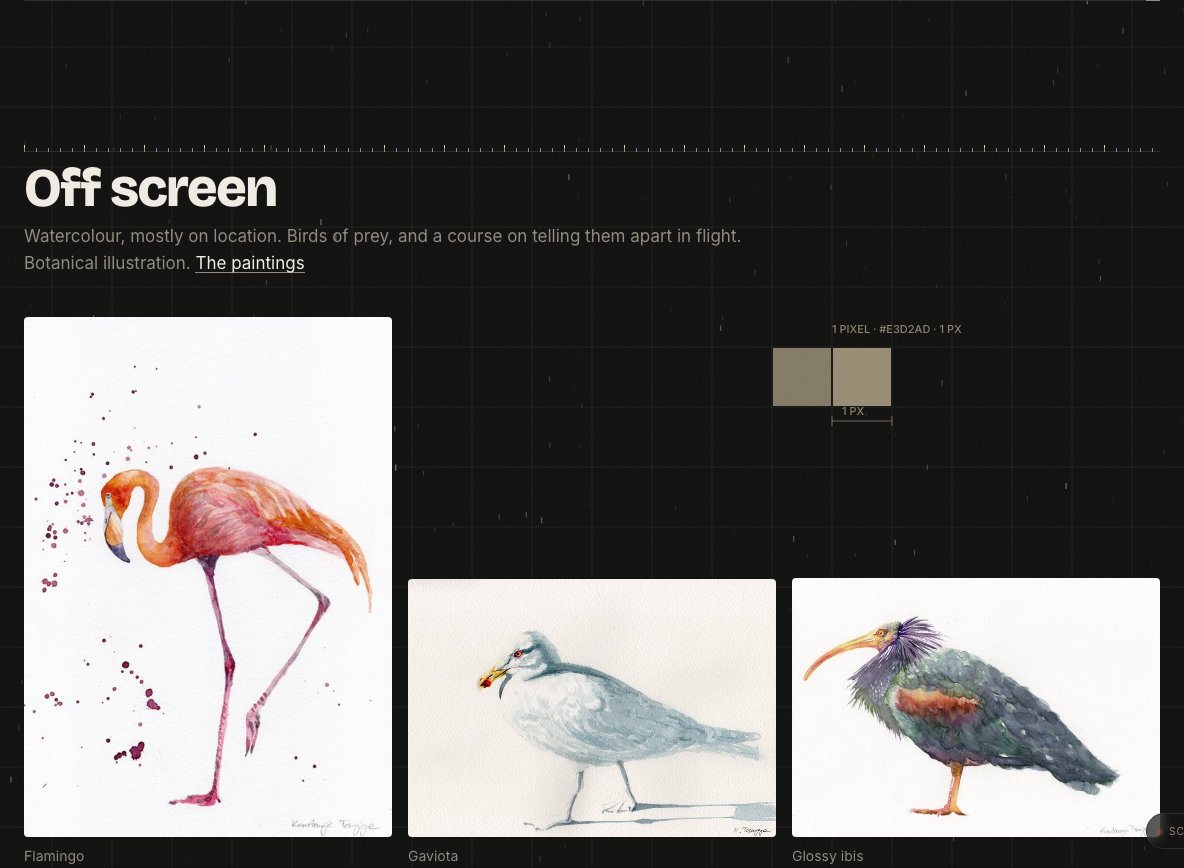
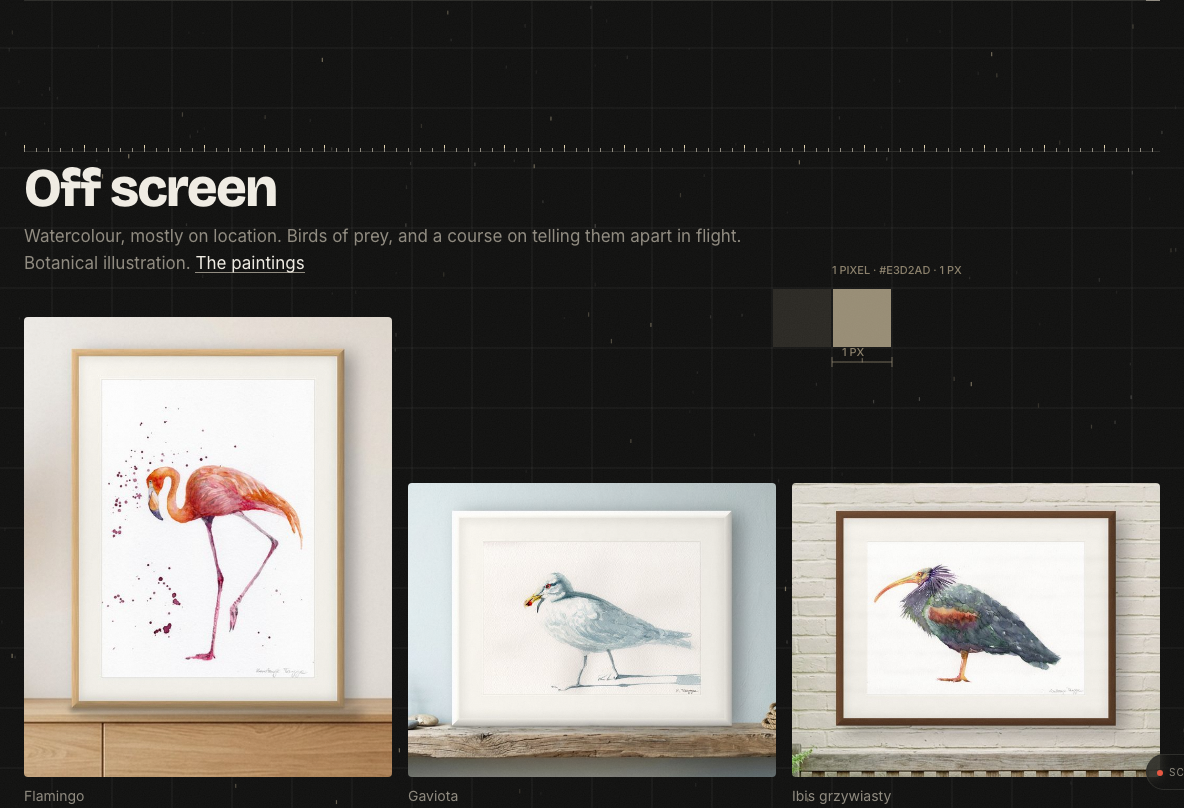
feat(home): ptaki w "Off screen" w ciasnych mockupach; Ibis grzywiasty
Flaming na debowej komodzie, mewa na polce z drewna wyrzuconego przez
morze, ibis na scianie oranzerii, z oryginalnych skanow. Podpis ibisa
"Ibis grzywiasty" na glownej i w serii Birds.

diff --git a/site/src/home/story.tsx b/site/src/home/story.tsx
@@ -52,19 +52,19 @@ export const career: { years: string; org: string; role: string; what: string }[
 
 export const offScreen: { src: string; alt: string; caption: string }[] = [
   {
-    src: "/watercolours/birds/plate-flamingo-thumb.jpg",
-    alt: "Watercolour of a pink flamingo walking on one raised leg, with splashes of crimson paint beside it, signed",
+    src: "/watercolours/birds/home-flamingo-mockup-thumb.jpg",
+    alt: "Watercolour of a pink flamingo walking on one raised leg, with splashes of crimson paint beside it, in a pale oak frame on a sideboard",
     caption: "Flamingo",
   },
   {
-    src: "/watercolours/birds/plate-gaviota-thumb.jpg",
-    alt: "Watercolour of a grey and white gull walking left with something red in its yellow beak, its shadow in blue-grey wash, signed",
+    src: "/watercolours/birds/home-gaviota-mockup-thumb.jpg",
+    alt: "Watercolour of a grey and white gull walking left with something red in its yellow beak, in a white frame on a driftwood shelf",
     caption: "Gaviota",
   },
   {
-    src: "/watercolours/birds/plate-glossy-ibis-thumb.jpg",
-    alt: "Watercolour of an ibis in profile, a long curved orange bill, a purple crest of loose feathers and dark green-blue plumage with a copper patch on the wing, signed",
-    caption: "Glossy ibis",
+    src: "/watercolours/birds/home-northern-bald-ibis-mockup-thumb.jpg",
+    alt: "Watercolour of a northern bald ibis in profile, a long curved orange bill, a purple crest of loose feathers and dark green plumage with a copper patch on the wing, in a walnut frame on a brick wall",
+    caption: "Ibis grzywiasty",
   },
 ];
 

diff --git a/site/src/content/watercolours.ts b/site/src/content/watercolours.ts
@@ -127,7 +127,7 @@ export const watercolours: Category[] = [
     paintings: [
       { src: "/watercolours/birds/01-flaming-na-krzesle-w-ramce-copy.jpg", thumb: "/watercolours/birds/01-flaming-na-krzesle-w-ramce-copy-thumb.jpg", title: "Flamingo on a chair" },
       { src: "/watercolours/birds/02-gaviota-i-monstera-copy.jpg", thumb: "/watercolours/birds/02-gaviota-i-monstera-copy-thumb.jpg", title: "Gaviota and monstera" },
-      { src: "/watercolours/birds/03-glossy-ibis-mockup.jpg", thumb: "/watercolours/birds/03-glossy-ibis-mockup-thumb.jpg", title: "Glossy ibis" },
+      { src: "/watercolours/birds/03-glossy-ibis-mockup.jpg", thumb: "/watercolours/birds/03-glossy-ibis-mockup-thumb.jpg", title: "Ibis grzywiasty" },
     ],
   },
   {

diff --git a/docs/redesign-2026/README.md b/docs/redesign-2026/README.md
@@ -224,3 +224,5 @@ One script now does all four series: [mockups2.py](mockups2.py) with [mockuplib.
 - **Cádiz province** made the same way as the other series from the original scans: the Colegiata in Jerez on an oak cabinet in a sherry bodega, the windmills of Vejer on a white village bench. Jobs in [mockups2-cadiz-jobs.json](mockups2-cadiz-jobs.json).
 
 ![Off screen with birds](home-off-screen-birds.png)
+
+The same day, on her note: the three birds on the home page now sit in tight mockups like the rest (a flamingo on an oak sideboard, the gull on a driftwood shelf, the ibis on a conservatory wall), and the ibis is captioned "Ibis grzywiasty" (northern bald ibis), on the home page and in the Birds series. Jobs in [mockups2-birdshome-jobs.json](mockups2-birdshome-jobs.json).
